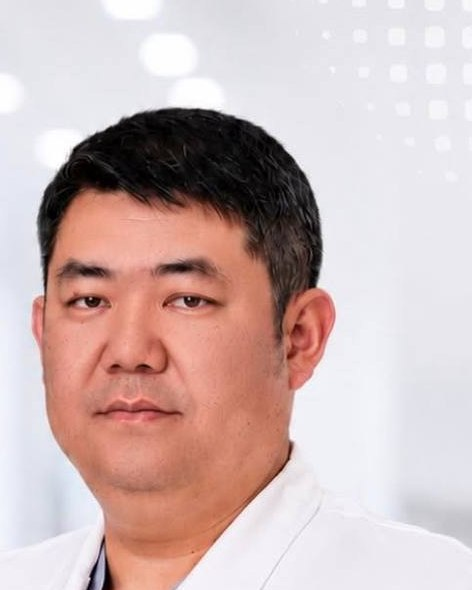
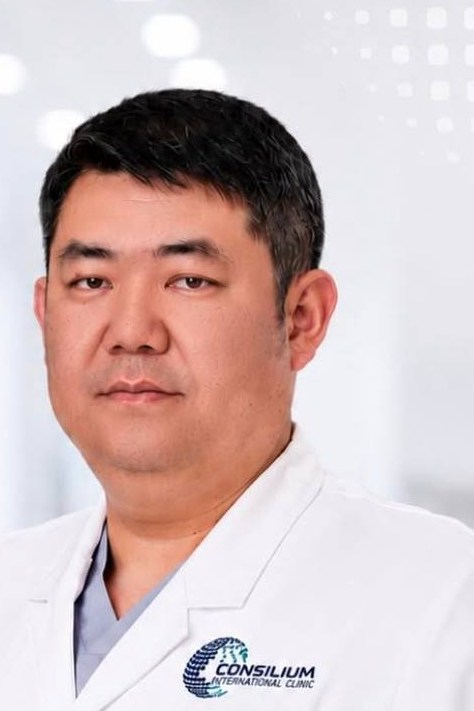
Убрано фото из раздела «Услуги», переснято кадрирование врачей
- Фотография стоматологического кабинета убрана из «Услуг»,
  раздел заканчивается тремя карточками направлений
- Портреты врачей пересобраны из постеров по единой схеме:
  одинаковый размер головы (~52% высоты кадра), одинаковый отступ
  сверху (~14%), у обоих виден халат с логотипом клиники
- Кадр 2:3 у фотографии карточки задан жёстко: раньше снимок
  растягивался под высоту текста, и два врача обрезались по-разному

diff --git a/assets/css/styles.css b/assets/css/styles.css
@@ -466,7 +466,6 @@ section[id] { scroll-margin-top: calc(var(--hdr-h) + 12px); }
 .cards {
   display: grid;
   gap: 14px;
-  margin-bottom: clamp(44px, 6vw, 76px);
 }
 .card {
   background: var(--white);
@@ -508,29 +507,7 @@ section[id] { scroll-margin-top: calc(var(--hdr-h) + 12px); }
 @media (min-width: 720px)  { .cards { grid-template-columns: repeat(2, 1fr); } }
 @media (min-width: 1020px) { .cards { grid-template-columns: repeat(3, 1fr); } }
 
-/* ---------- 12. Photo band ---------- */
-.band {
-  position: relative;
-  border-radius: var(--r);
-  overflow: hidden;
-  background: var(--navy-900);
-}
-.band img {
-  width: 100%; aspect-ratio: 4 / 3; object-fit: cover; object-position: center 45%;
-}
-.band figcaption {
-  position: absolute; left: 0; bottom: 0; right: 0;
-  padding: 34px 20px 16px;
-  font-family: var(--f-mono); font-size: .7rem; letter-spacing: .12em;
-  text-transform: uppercase; color: #fff;
-  background: linear-gradient(to top, rgba(6,32,58,.9), transparent);
-}
-@media (min-width: 760px) {
-  .band img { aspect-ratio: 16 / 8; }
-  .band figcaption { padding: 44px 30px 22px; }
-}
-
-/* ---------- 13. Procedures ---------- */
+/* ---------- 12. Procedures ---------- */
 .procs { display: grid; gap: 14px; }
 .proc {
   border: 1px solid var(--line-navy);
@@ -570,7 +547,7 @@ section[id] { scroll-margin-top: calc(var(--hdr-h) + 12px); }
   background: var(--white);
   display: flex; flex-direction: column;
 }
-.doc img { width: 100%; aspect-ratio: 4 / 5; object-fit: cover; object-position: center 22%; }
+.doc img { width: 100%; aspect-ratio: 4 / 5; object-fit: cover; object-position: center 20%; }
 .doc__body { padding: clamp(22px, 3vw, 30px); display: flex; flex-direction: column; }
 .doc__tag {
   display: inline-block; align-self: flex-start;
@@ -592,11 +569,18 @@ section[id] { scroll-margin-top: calc(var(--hdr-h) + 12px); }
 .doc__exp span { color: var(--ink-50); letter-spacing: .14em; text-transform: uppercase; font-size: .68rem; margin-right: 8px; }
 
 /* From tablet up the card turns on its side: portrait left, credentials right —
-   keeps the photo at its native resolution instead of blowing it up. */
+   keeps the photo at its native resolution instead of blowing it up.
+   The portrait keeps its own 2:3 crop rather than stretching to whatever height
+   the text happens to be, so both doctors are framed identically. */
 @media (min-width: 560px) {
   .doc { flex-direction: row; }
-  .doc img { width: 40%; max-width: 236px; flex: none; align-self: stretch; aspect-ratio: auto; }
-  .doc__body { flex: 1 1 auto; justify-content: center; }
+  .doc img {
+    width: 40%; max-width: 236px; flex: none;
+    align-self: flex-start;
+    aspect-ratio: 2 / 3;
+    object-position: center;
+  }
+  .doc__body { flex: 1 1 auto; }
 }
 @media (min-width: 1000px) { .docs { grid-template-columns: 1fr 1fr; align-items: stretch; } }
 

diff --git a/index.html b/index.html
@@ -198,13 +198,6 @@
         <a class="card__link" href="#procedures">Подробнее о процедурах</a>
       </article>
     </div>
-
-    <figure class="band">
-      <img src="assets/img/dental-office.jpg"
-           alt="Стоматологический кабинет Consilium International Clinic с новым оборудованием"
-           width="1101" height="1280" loading="lazy" decoding="async">
-      <figcaption>Стоматологический кабинет клиники</figcaption>
-    </figure>
   </div>
 </section>
 
@@ -277,7 +270,7 @@
       <article class="doc">
         <img src="assets/img/doctor-khvan.jpg"
              alt="Хван Олег Витальевич, ортопед-имплантолог Consilium International Clinic"
-             width="472" height="590" loading="lazy" decoding="async">
+             width="474" height="711" loading="lazy" decoding="async">
         <div class="doc__body">
           <p class="doc__tag">Ведущий специалист</p>
           <h3 class="doc__name">Хван Олег Витальевич</h3>
@@ -295,7 +288,7 @@
       <article class="doc">
         <img src="assets/img/doctor-musina.jpg"
              alt="Мусина Бибинур Ермековна, детский невропатолог Consilium International Clinic"
-             width="506" height="632" loading="lazy" decoding="async">
+             width="400" height="600" loading="lazy" decoding="async">
         <div class="doc__body">
           <p class="doc__tag">Детское направление</p>
           <h3 class="doc__name">Мусина Бибинур Ермековна</h3>

diff --git a/assets/js/main.js b/assets/js/main.js
@@ -256,7 +256,7 @@
   --------------------------------------------------------- */
   (function reveal() {
     var sel = ['.sechead', '.etym', '.shot', '.split__body', '.card',
-               '.band', '.proc', '.doc', '.visit__col', '.chan', '.note'];
+               '.proc', '.doc', '.visit__col', '.chan', '.note'];
 
     sel.forEach(function (s) {
       var nodes = document.querySelectorAll(s);
